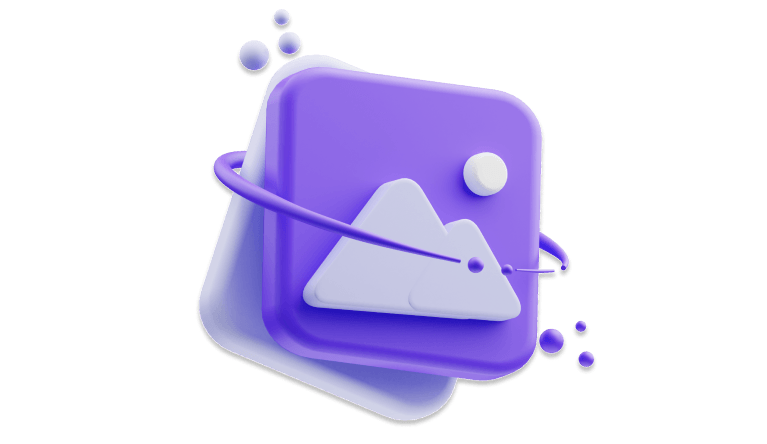
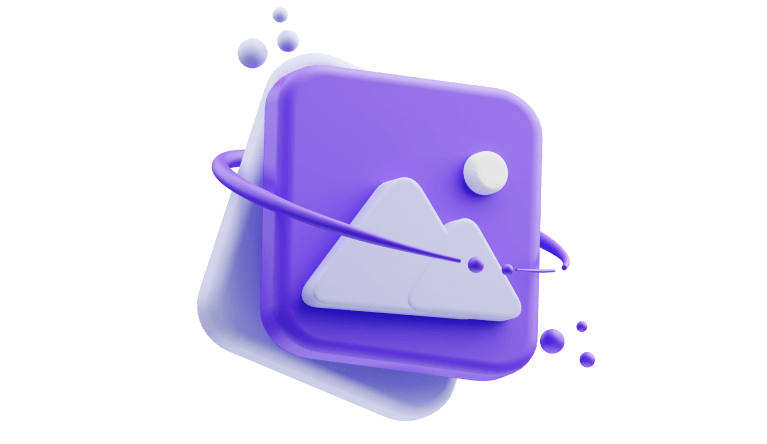
fix about

diff --git a/public/AboutPage/about.html b/public/AboutPage/about.html
@@ -141,15 +141,15 @@
                                             </div>
                                             <p style="font-size: 24px ;font-family: 'Work Sans', sans-serif !important;"
                                                 data-animation="fadeInLeft" data-delay=".6s">
-                                                Future Leader Summit need to provide a leadership platform 
-                                                that will be filled with innovative and progressive ideas from 
+                                                Future Leader Summit need to provide a leadership platform
+                                                that will be filled with innovative and progressive ideas from
                                                 youth so that they can contribute to the nation.</p>
 
                                         </div>
                                     </div>
                                     <div class="col-lg-5">
                                         <div class="hero__img  d-lg-block f-right wow bounce-animate">
-                                            <img src="../../assets/img/DESIGN-MASKOT-FLS 1.png" alt=""
+                                            <img src="../../assets/img/DESIGN-MASKOT-FLS.png" alt=""
                                                 data-animation="fadeInRight" data-delay="1s">
                                         </div>
                                     </div>

diff --git a/public/AboutPage/about.css b/public/AboutPage/about.css
@@ -2,8 +2,8 @@
 
 .slider-area .hero__img img {
   position: absolute;
-  top: -200px;
-  right: 50px !important;
+  top: -240px;
+  right: -160px;
 }
 
 .slider-area .hero__caption {
